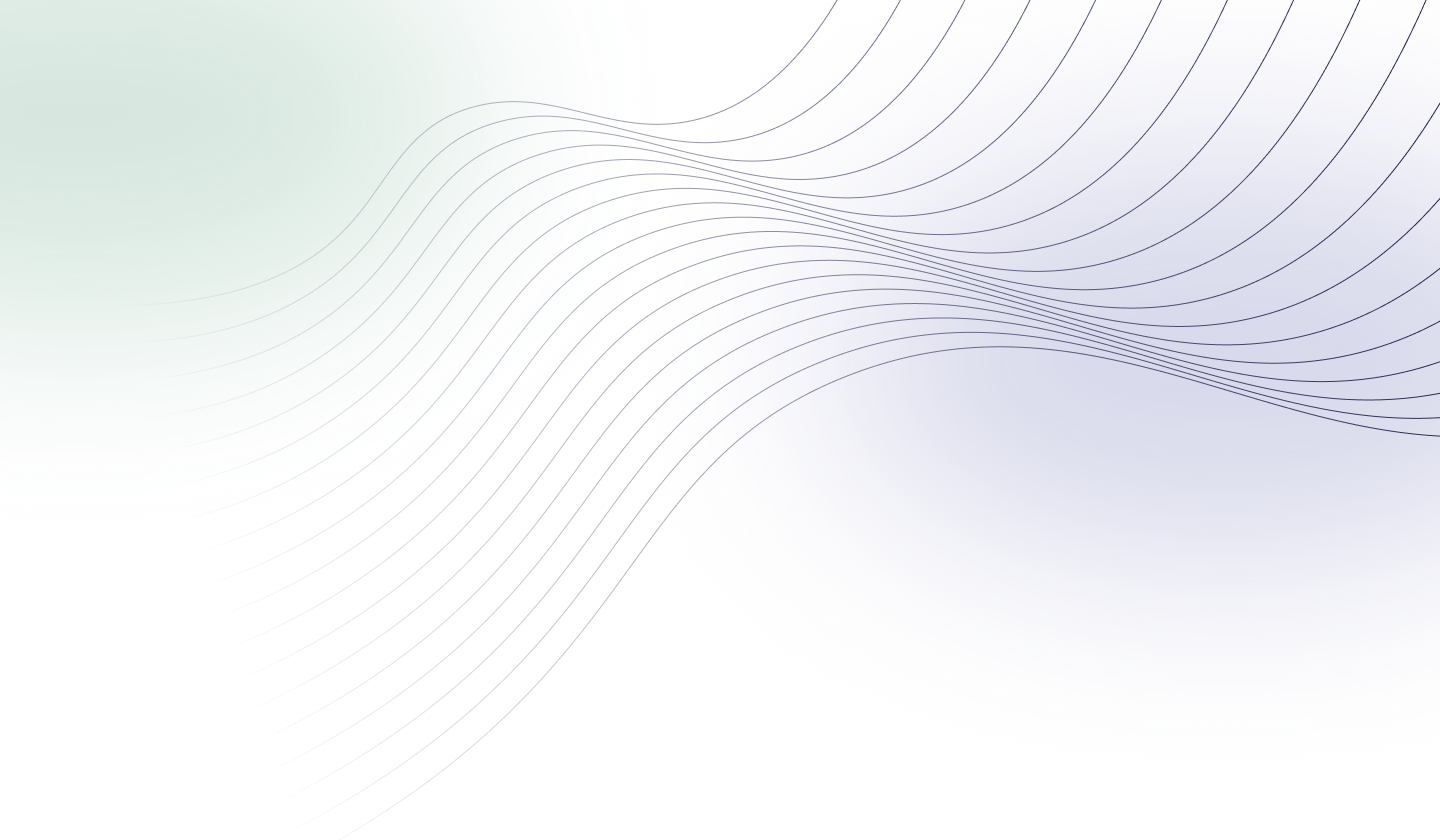
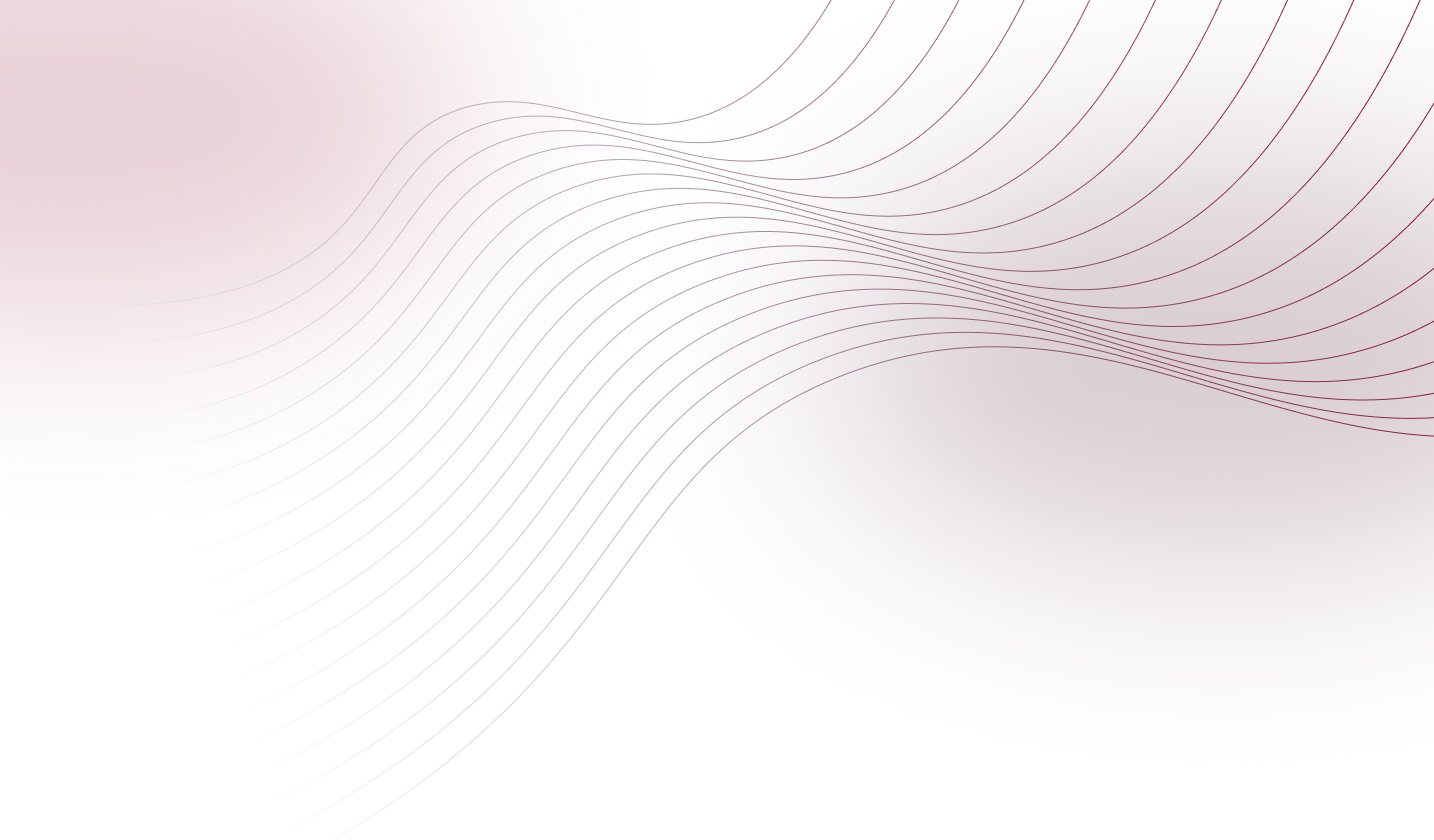
new assets

diff --git a/tailwind.config.js b/tailwind.config.js
@@ -10,23 +10,15 @@ module.exports = {
       },
 
       backgroundImage: {
-        app: 'url(/app-bg-2.png)',
+        app: 'url(/app-bg.png)',
       },
 
       colors:{
-        softgreen: {
-          500: '#129E57',
-        },
-
+        
         red: {
           300: '#B11544',
           600: '#8B1538',
           700: '#510D21',
-        },
-
-        yellow: {
-          500: '#F7DD43',
-          700: '#E5CD3D',
         },
 
         gray: {
